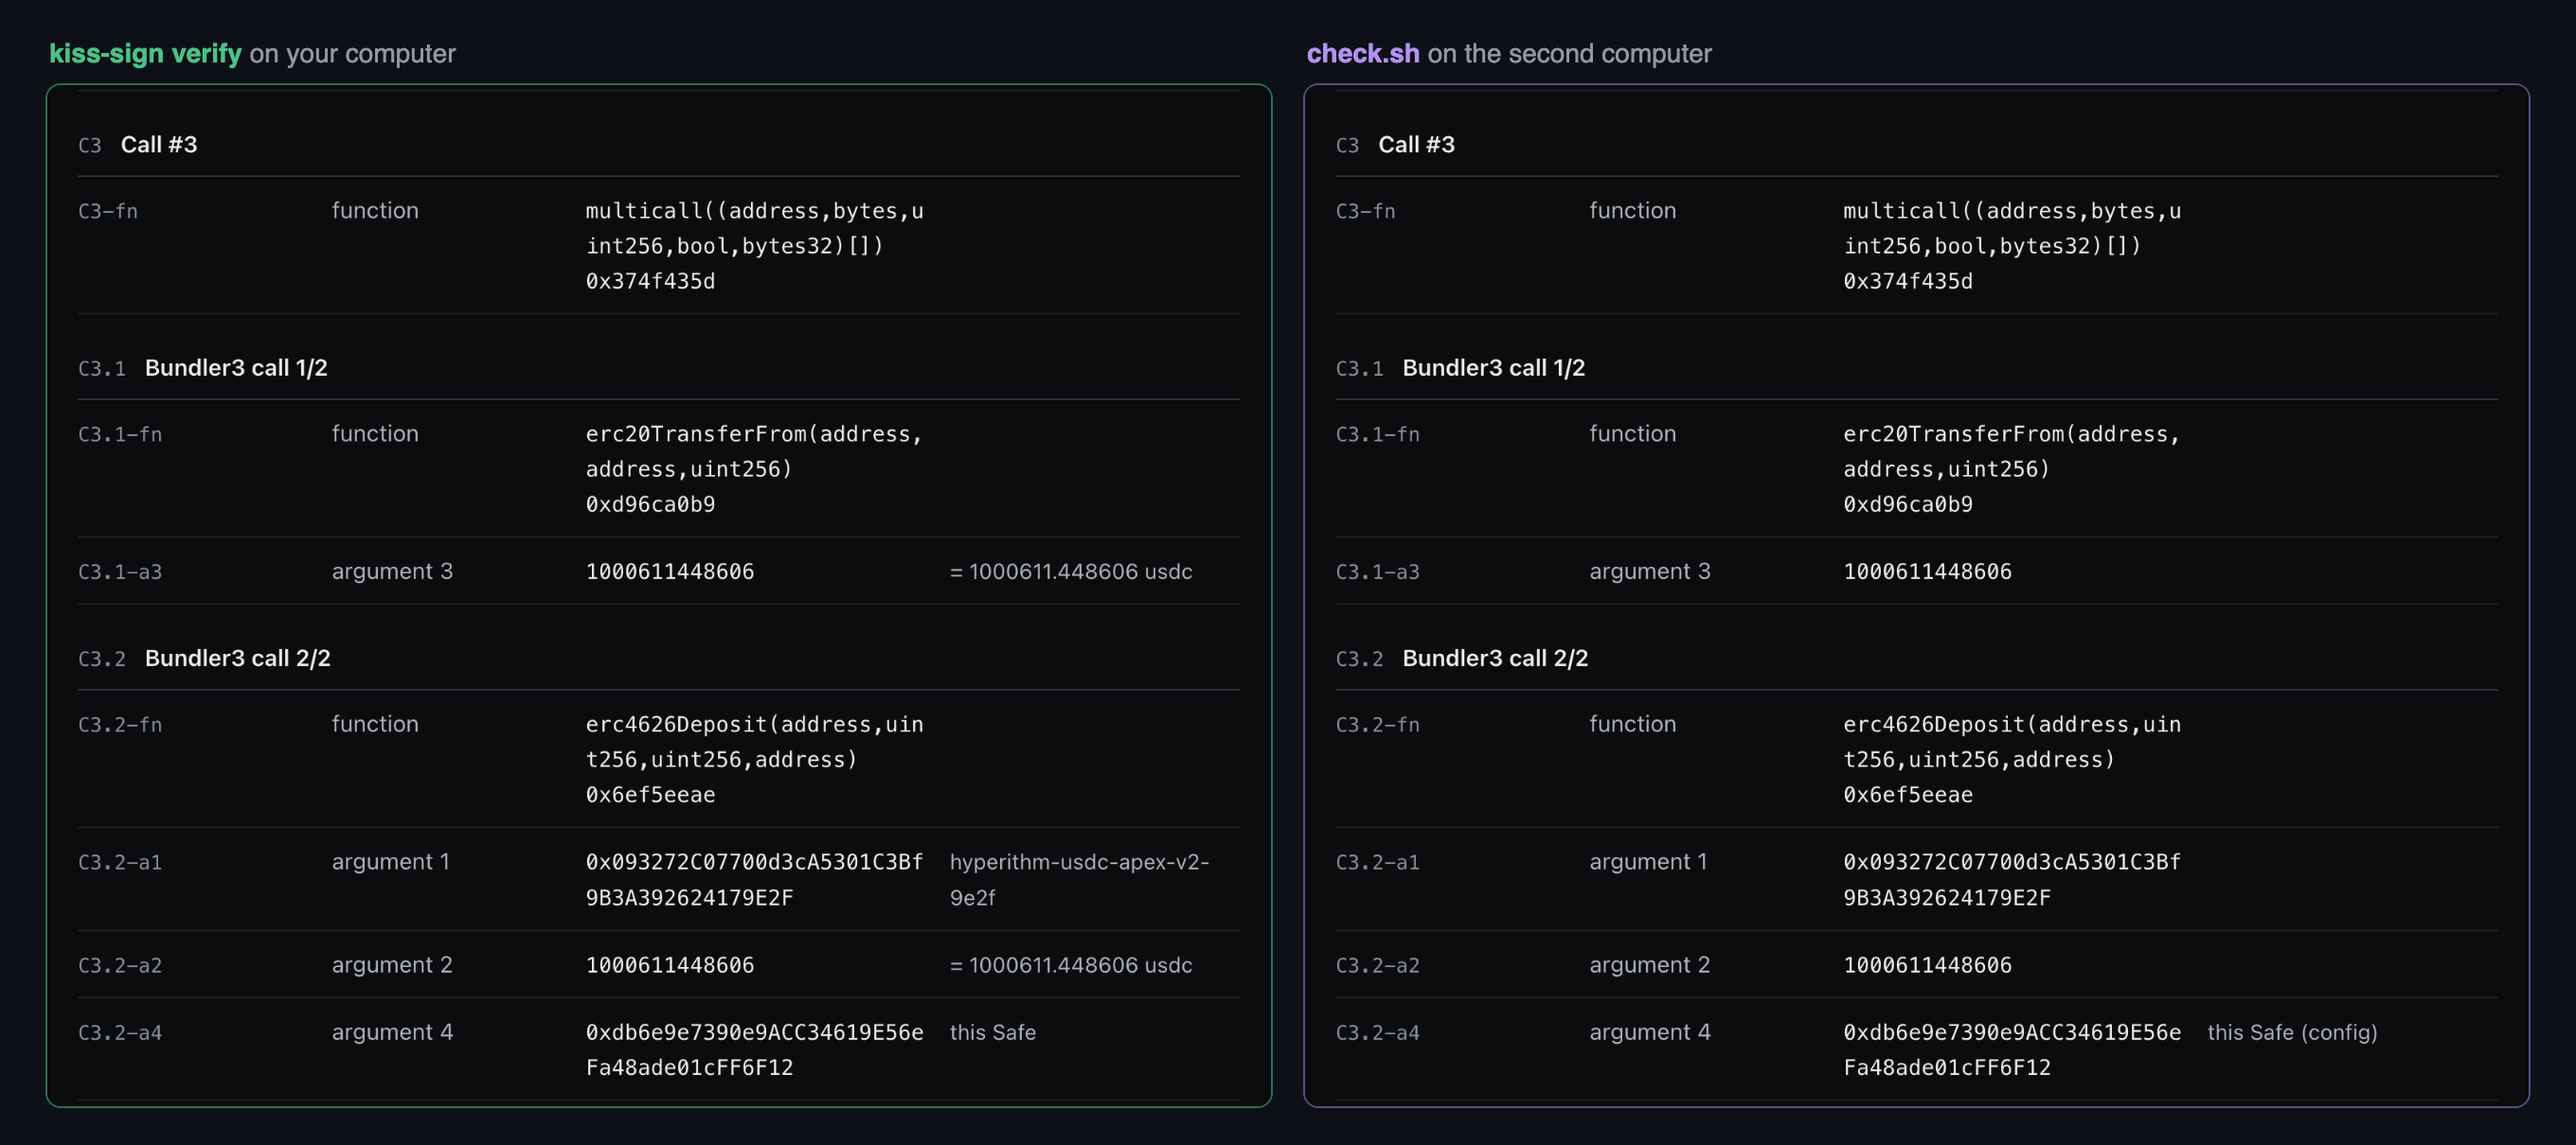
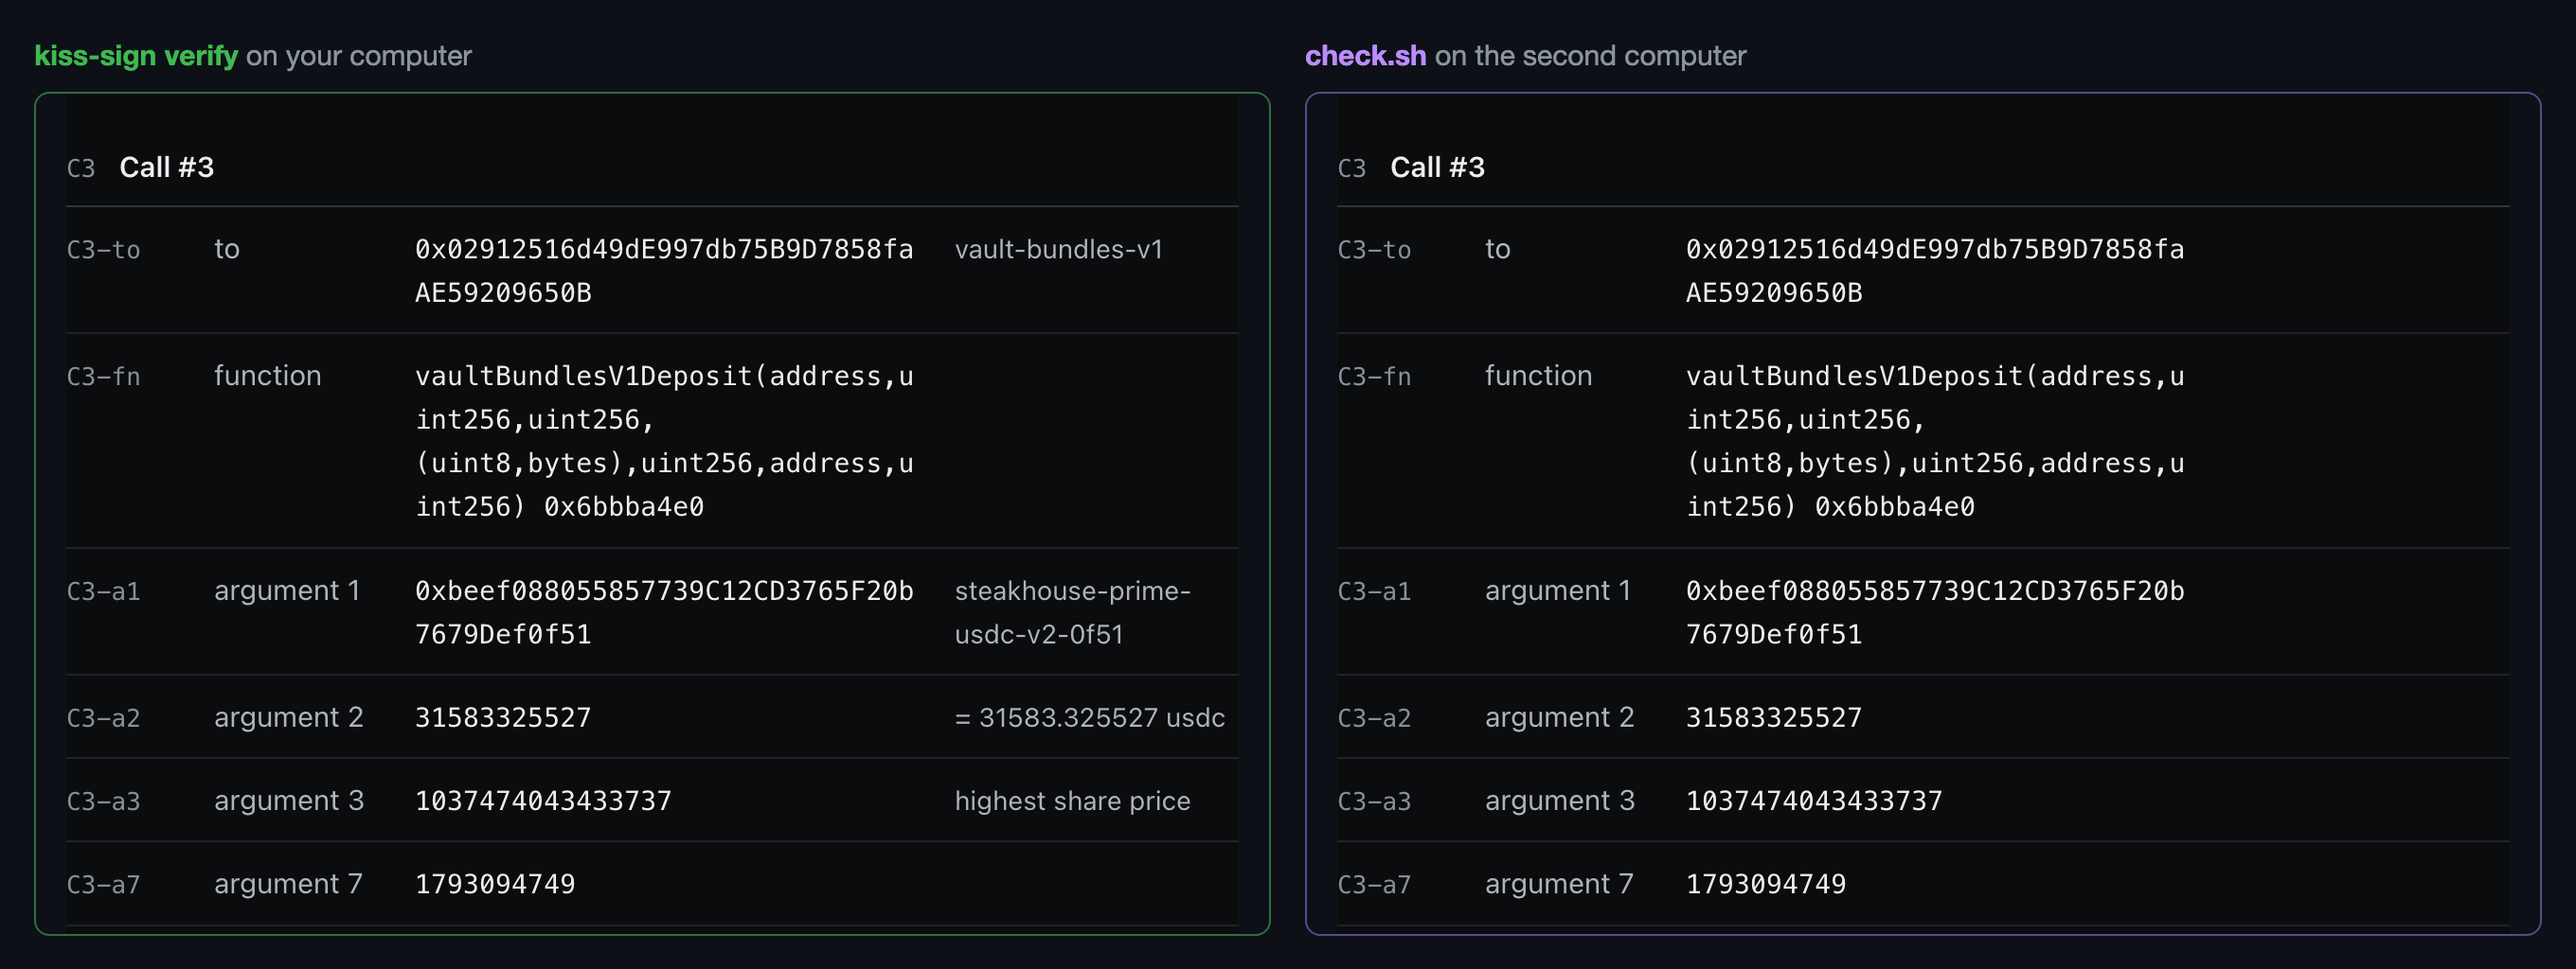
Re-shoot card new and the side-by-side call rows from the current program
card-fill.png is card new for the Hyperithm walkthrough as the program prints
it today. compare-multicall.png is kiss-sign verify next to check.sh for
another Safe's executed VaultBundlesV1 deposit (fixture morpho-bundles-deposit),
so the README no longer needs the older Bundler3 deposit.

Claude-Session: https://claude.ai/code/session_019EpkRkn6F3SRGRJRDjDP61

diff --git a/README.md b/README.md
@@ -190,9 +190,9 @@ First the hashes. They must be identical on both pages and on your hardware wall
 
 ![The hash rows of both pages side by side: safeTxHash, domain hash and message hash, the same on kiss-sign verify and on check.sh](docs/readme/compare-hashes.png)
 
-Then every call, row by row, down to the calls inside a batch. This is an older deposit into the same vault, sent through Bundler3 before Morpho's app moved to VaultBundlesV1: both sides split Bundler3's `multicall` into the token transfer and the vault deposit it runs. Every column must be identical except the names on the right, which only kiss-sign writes, from its registry:
+Then every call, row by row, down to the calls inside a batch. This is another Safe's executed deposit through VaultBundlesV1, into the Steakhouse Prime vault: both sides split its MultiSend into the USDC approval and the VaultBundlesV1 deposit, call #3 below. Every column must be identical except the names on the right, which only kiss-sign writes, from its registry:
 
-![Some rows of call #3 on both pages side by side: the Bundler3 multicall, then its two inner calls, erc20TransferFrom of 1000611448606 and erc4626Deposit into the Hyperithm vault for the Safe, the same on both sides; only kiss-sign's side names the vault and the amounts in the last column](docs/readme/compare-multicall.png)
+![Some rows of call #3 on both pages side by side: vaultBundlesV1Deposit on VaultBundlesV1, into vault 0xbeef088055857739C12CD3765F20b7679Def0f51, with assets 31583325527, the share-price ceiling and the deadline, the same on both sides; only kiss-sign's side names the bundle, the vault, the amount and the share-price ceiling in the last column](docs/readme/compare-multicall.png)
 
 `--hints` tell `check.sh` how to read bytes that hold data rather than a call, such as a Vault V2 cap id. They carry positions and types only and never change a row, so a wrong hint cannot make the rows match. See [Hints from kiss-sign](https://github.com/ipromise2324/kiss-sign-check/blob/main/docs/hints.md).
 
